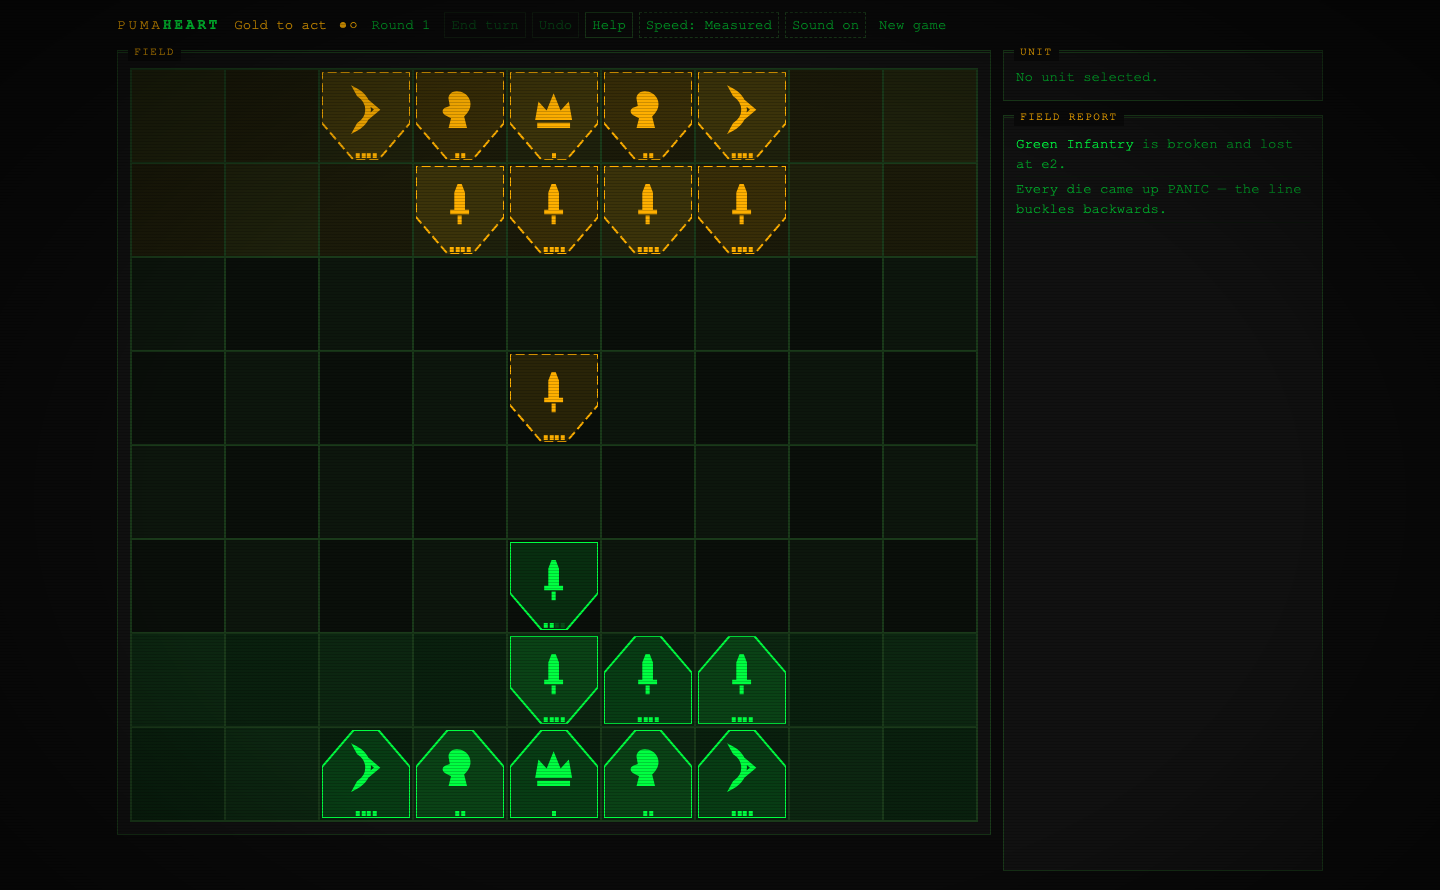
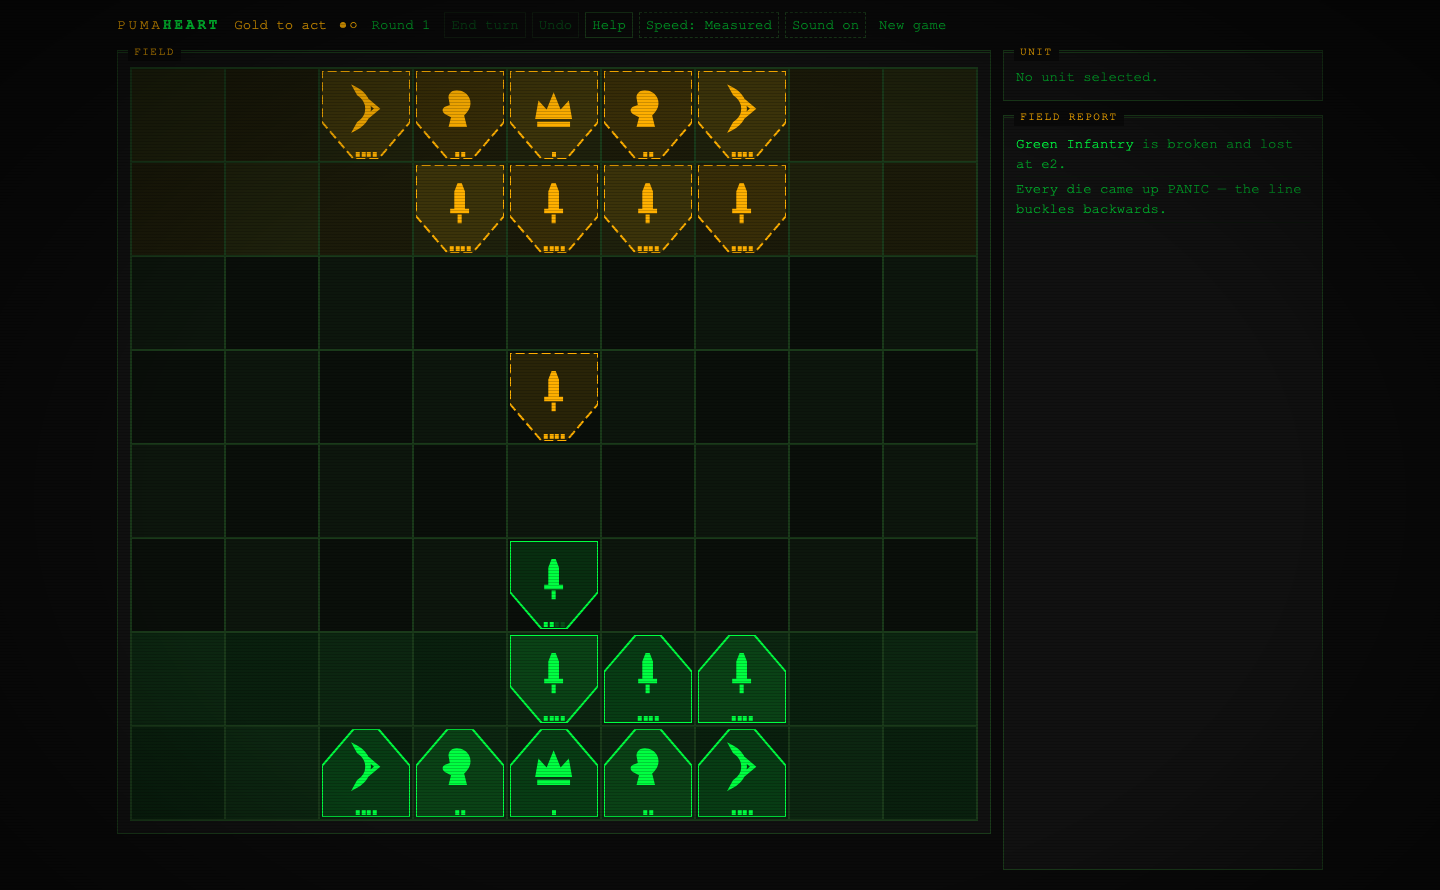
Drag a base to move it, and stop the turn arrows stealing clicks
Rotating by accident was a geometry problem, not a sensitivity one. The
two handles were 39px on a 65px square and hung off its corners, so
between them they covered part of FIVE neighbouring squares: 223px of
the square directly ahead -- which is where you click to advance -- and
about 200px of each side neighbour. A click meant for a move landed on
a turn. Measured, then fixed: the handles are 0.30sq, anchored at the
base's own corners, and overlap exactly nothing outside it.

And picking a base up and putting it down is what a hand does to a
piece, so that works now. Press a base, drag, let go: on an empty
square it moves, on an enemy it attacks, on one of your own during
deployment the two swap. It is the same two decisions the game already
took as two clicks, with the button held down in between, and it ends
in the same activateSquare() -- so every rule, cost and animation is
the one that was already there. Click-then-click is untouched.

Fine pointers only. A drag on a touchscreen is how you scroll, which is
also why a press-and-hold to rotate was the wrong answer: the hold
would fire in the middle of someone trying to drag. Touch keeps the
tap-tap it had, and its turn controls stay on the bar under the board.

One bug found while testing it. Suppressing the click that a browser
fires at the end of a drag started as a flag, and a drop that lands on
a different element than the press sometimes produces no click at all
[…]

diff --git a/index.html b/index.html
@@ -263,6 +263,12 @@ body::after {
   opacity: 0.9;
 }
 .sq.mv::after { box-shadow: inset 0 0 0 2px var(--mv); }
+/* The square under the hand during a drag. */
+#grid.is-dragging { cursor: grabbing; }
+#grid.is-dragging .sq { cursor: grabbing; }
+.sq.drag-over::after { box-shadow: inset 0 0 0 3px var(--sel); }
+.sq.mv.drag-over::after { box-shadow: inset 0 0 0 3px var(--mv); }
+.sq.tg.drag-over::after { box-shadow: inset 0 0 0 3px var(--tg); }
 .sq.tg::after { box-shadow: inset 0 0 0 2px var(--tg); }
 
 @keyframes bloom { from { opacity: 0; transform: scale(0.72); } to { opacity: 1; transform: none; } }
@@ -570,6 +576,11 @@ td.step b { display: inline-block; min-width: 1.6em; text-align: center; }
 
 .rot {
   pointer-events: auto;
+  /* Wholly inside the base. At 0.60sq hanging off the corners they covered
+     part of FIVE neighbouring squares -- 223px of the square directly ahead,
+     which is where you click to advance, and about 200px of each side
+     neighbour. A click meant for a move landed on a turn. Nothing of them
+     now reaches past the base they belong to. */
   /* Tucked into the base's own top corners rather than floating above it.
      Bare strokes sitting clear of the unit landed on whatever occupied the
      rank behind, and an opaque box was what used to hide that. A north-facing
@@ -578,9 +589,9 @@ td.step b { display: inline-block; min-width: 1.6em; text-align: center; }
      amber reads over comfortably. */
   /* The box is larger than the arrow: the extra is transparent padding, so
      the mark stays a small gesture while the target stays easy to hit. */
-  position: absolute; top: calc(var(--sq) * -0.10);
-  width: calc(var(--sq) * 0.60); height: calc(var(--sq) * 0.60);
-  min-width: 24px; min-height: 24px;
+  position: absolute; top: 0;
+  width: calc(var(--sq) * 0.30); height: calc(var(--sq) * 0.30);
+  min-width: 17px; min-height: 17px;
   display: flex; align-items: center; justify-content: center;
   border: 0; background: none;
   color: var(--amber); cursor: pointer; z-index: 12;
@@ -588,10 +599,10 @@ td.step b { display: inline-block; min-width: 1.6em; text-align: center; }
   filter: drop-shadow(0 0 2px var(--bg)) drop-shadow(0 0 1px var(--bg));
   animation: rotIn 200ms var(--ease-out-expo) backwards;
 }
-.rot-left  { left: calc(var(--sq) * -0.13); }
-.rot-right { right: calc(var(--sq) * -0.13); }
+.rot-left  { left: 0; }
+.rot-right { right: 0; }
 .rot-right { animation-delay: 50ms; }
-.rot svg { width: 72%; height: 72%; overflow: visible; }
+.rot svg { width: 90%; height: 90%; overflow: visible; }
 .rot .arc  { fill: none; stroke: currentColor; stroke-width: 2.4; stroke-linecap: round; }
 .rot .head { fill: currentColor; stroke: none; }
 .rot:hover, .rot:focus-visible { color: var(--white); }
@@ -605,8 +616,7 @@ td.step b { display: inline-block; min-width: 1.6em; text-align: center; }
   #touchbar { display: flex; }
 }
 
-/* The board needs headroom so handles on the back rank are not clipped. */
-#board-wrap { padding-top: calc(var(--sq) * 0.16); }
+/* Nothing hangs outside a square any more, so the board needs no headroom. */
 
 /* ============================================================
    COMBAT CUT-IN
@@ -2470,6 +2480,82 @@ function processEventQueue() {
   nextEvent();
 }
 
+/* DRAG TO MOVE. Picking a base up and putting it down is what a hand does
+   to a piece on a board, and it is what people tried. Click-then-click still
+   works exactly as before -- this is the same two decisions with the mouse
+   held down in between, and it ends in the same activateSquare().
+
+   Fine pointers only. A drag on a touchscreen is how you scroll the page,
+   and turning rotation into a press-and-hold was ruled out for the same
+   reason: the hold would fire in the middle of someone trying to drag.
+
+   A drag that ends where it started is just a click, and falls through to
+   the click handler. One that ends anywhere else suppresses that click, so
+   a base dropped on a square is not also "clicked" onto it twice. */
+const DRAG_SLOP = 6;
+
+function squareFromPoint(x, y) {
+  const el = document.elementFromPoint(x, y);
+  const sq = el && el.closest ? el.closest("#grid .sq") : null;
+  return sq ? { c: +sq.dataset.c, r: +sq.dataset.r, el: sq } : null;
+}
+
+function setupDrag() {
+  const grid = document.getElementById("grid");
+  if (!grid || !window.matchMedia("(pointer: fine)").matches) return;
+
+  grid.addEventListener("pointerdown", ev => {
+    if (ev.button !== 0 || ev.target.closest("[data-act]")) return;   /* the turn arrows keep their click */
+    const from = squareFromPoint(ev.clientX, ev.clientY);
+    if (!from) return;
+    const u = unitAt(G, buildGrid(G), from.c, from.r);
+    const mine = G.phase === "deploy" ? (u && u.side === G.deploySide && deployTurn())
+                                      : (u && u.side === G.turn && myTurn());
+    if (!mine) return;
+    UI.drag = { uid: u.uid, from, x: ev.clientX, y: ev.clientY, live: false };
+  });
+
+  grid.addEventListener("pointermove", ev => {
+    const d = UI.drag;
+    if (!d) return;
+    if (!d.live) {
+      if (Math.abs(ev.clientX - d.x) + Math.abs(ev.clientY - d.y) < DRAG_SLOP) return;
+      d.live = true;
+      /* Selecting on the way makes the legal squares light up under the
+         hand, so the drag is guided rather than guessed. */
+      if (UI.sel !== d.uid) { UI.sel = d.uid; updateAll(); }
+      grid.classList.add("is-dragging");
+    }
+    const over = squareFromPoint(ev.clientX, ev.clientY);
+    const key = over ? over.c + "," + over.r : null;
+    if (key !== d.overKey) {
+      d.overKey = key;
+      for (const el of grid.querySelectorAll(".sq.drag-over")) el.classList.remove("drag-over");
+      if (over) over.el.classList.add("drag-over");
+    }
+  });
+
+  const finish = ev => {
+    const d = UI.drag;
+    UI.drag = null;
+    if (!d) return;
+    grid.classList.remove("is-dragging");
+    for (const el of grid.querySelectorAll(".sq.drag-over")) el.classList.remove("drag-over");
+    if (!d.live) return;                       /* never moved: let it be a click */
+    /* A timestamp, not a flag. A drop that lands on a different element than
+       the press sometimes produces no click at all, and a flag left standing
+       would then eat the next real one. This expires on its own. */
+    UI.draggedAt = Date.now();
+    const to = ev ? squareFromPoint(ev.clientX, ev.clientY) : null;
+    if (!to || (to.c === d.from.c && to.r === d.from.r)) return;
+    UI.cur = idx(to.c, to.r);
+    UI.focusInGrid = true;
+    activateSquare(to.c, to.r);
+  };
+  grid.addEventListener("pointerup", finish);
+  grid.addEventListener("pointercancel", () => finish(null));
+}
+
 /* ============================================================
    HUMAN INPUT
    One click listener and one keydown listener on #app, routed by
@@ -2764,6 +2850,9 @@ function setupInput() {
      curtain are siblings of #app, so an #app-scoped listener cannot see
      their buttons at all -- they look inert by both mouse and keyboard. */
   document.addEventListener("click", ev => {
+    /* The click the browser fires at the end of a drag would replay the drop
+       as a second decision. */
+    if (UI.draggedAt && Date.now() - UI.draggedAt < 300) { UI.draggedAt = 0; return; }
     const act = ev.target.closest("[data-act]");
     if (act) { dispatchAct(act.dataset.act, act); return; }
     const cell = ev.target.closest(".sq");
@@ -2774,6 +2863,7 @@ function setupInput() {
     }
   });
 
+  setupDrag();
   app.addEventListener("focusin", ev => { UI.focusInGrid = !!ev.target.closest("#grid"); });
   void app;
 
@@ -3928,9 +4018,11 @@ function renderHelp() {
 
     <h3>Playing with the mouse</h3>
     <p>Click one of your bases to select it. Its legal moves ring in green and anything it can
-       attack rings in red &mdash; click a ring to act. The two curved arrows in a selected base's
-       front corners turn it a quarter turn each way, and turning costs an action like the rest.
-       Everything below is a shortcut for something you can click.</p>
+       attack rings in red &mdash; click a ring to act. Or just <b>drag the base</b> where you
+       want it and let go, which is the same two decisions with the button held down. The small
+       curved arrows in a selected base's front corners turn it a quarter turn each way, and
+       turning costs an action like the rest. Everything below is a shortcut for something you
+       can click.</p>
 
     <h3>Keys</h3>
     <table class="ref keys">${keys}</table>
@@ -4358,8 +4450,9 @@ function renderDeployBar() {
       <span class="dim">Their plan is behind the screen until both are laid.</span></p>
     ${opening ? `<p class="dep-opening"><span class="box-label-ish">${esc(opening.name)}</span>
       <span class="dim">${esc(opening.note)}</span></p>` : ""}
-    <p class="dim">Pick a base, then a square to move it, or another base to swap them.
-      The two curved arrows in a selected base's front corners turn it.</p>
+    <p class="dim">Drag a base where you want it, or click it and then the square &mdash;
+      dropping it on one of your own swaps the two. The small arrows in a selected base's
+      front corners turn it.</p>
     <div class="muster-actions">
       <button class="btn" data-act="deployAuto">Re-form the line</button>
       <button class="btn btn-go" data-act="deployReady">Take the field</button>
@@ -5290,7 +5383,7 @@ const UI = {
   musterOpen: false, musterSide: 0, muster: null, musterSpecs: null, pendingOpponent: "ai",
   muted: false, speed: 1, rects: null, rotLock: null, rotLockTimer: null, aim: null, preAttack: null,
   menuOpen: false, menuAdvanced: false, helpOpen: false, coach: null,
-  pendingFortune: null, openingIdx: null,
+  pendingFortune: null, openingIdx: null, drag: null, draggedAt: 0,
   bloom: false, lastSel: null, entering: false, lastActions: null, lastTurnKey: null,
   pendingSkill: 1, houseRules: null,
   menu: { opponent: "ai", skill: "1", fortune: String(FORTUNE_EVEN), house: {} },
